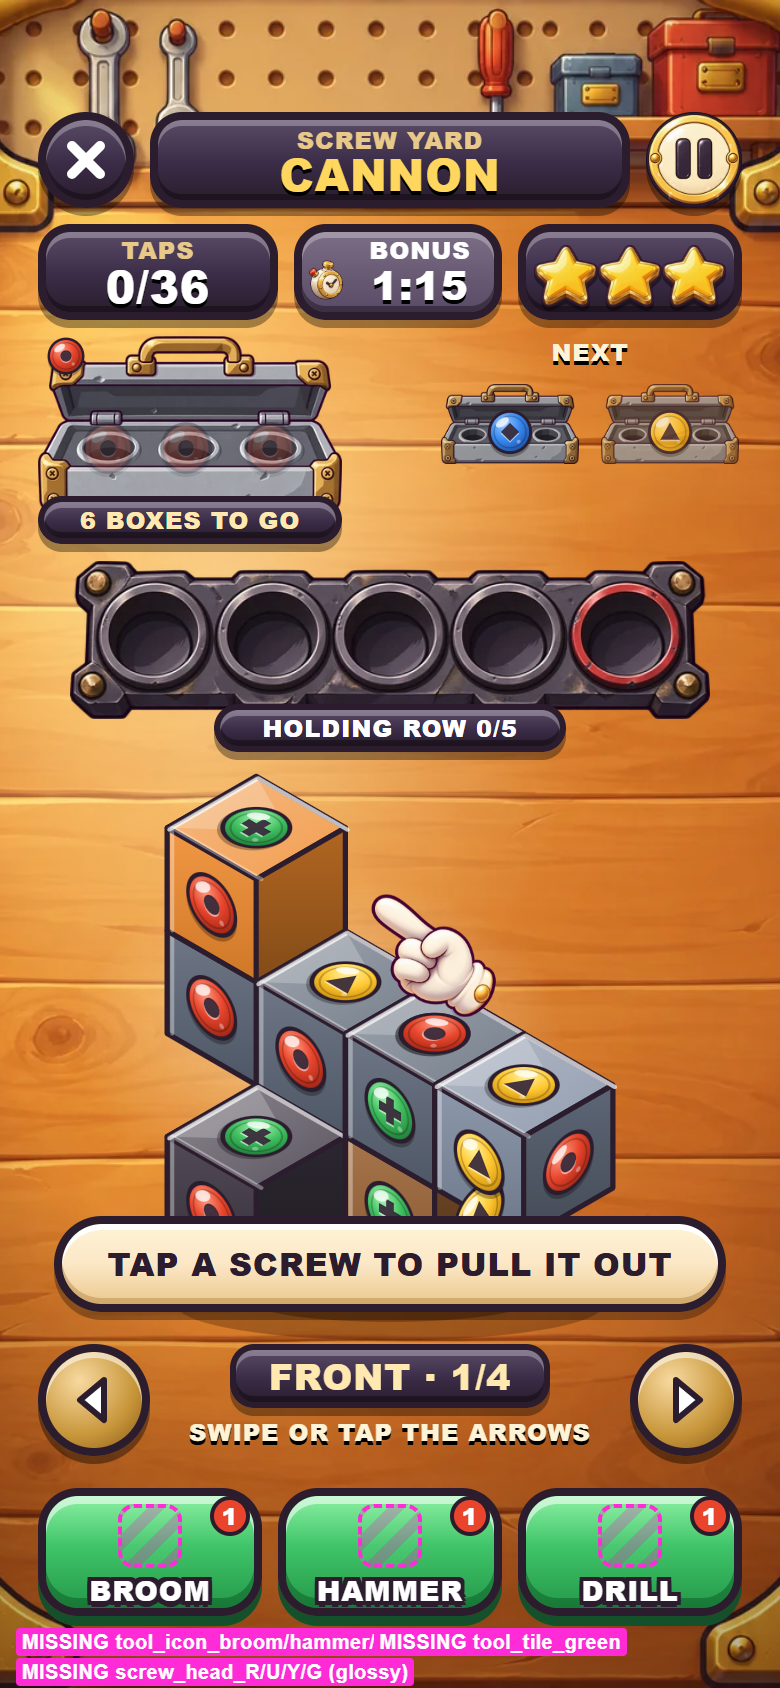
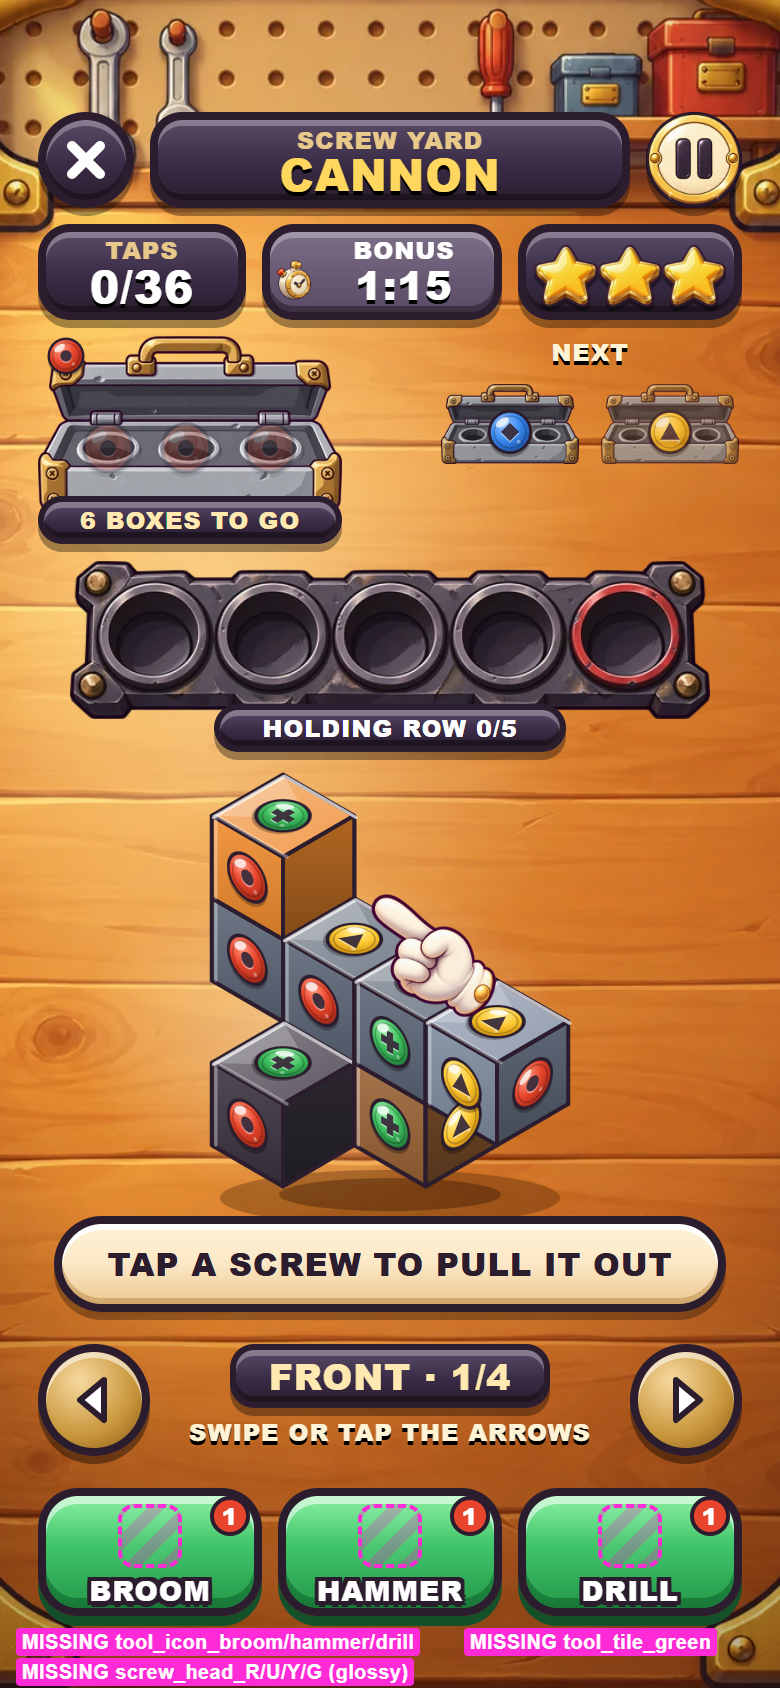
Screw Yard mock: pixel check pass (stage vs bubbles, stats row, popup, modal position), stronger audit, PIXEL_CHECK.md

diff --git a/art-candidates/mockups/screw-yard/index.html b/art-candidates/mockups/screw-yard/index.html
@@ -171,7 +171,7 @@ img('icon_pause',48,48,{position:'absolute',left:'-4px',top:'-4px',width:'48px',
 
 // HUD row 2: taps / bonus clock / star meter
 const r2=el('div',null,{left:L+'px',top:'112px',width:(C-32)+'px',height:'48px',zIndex:80,display:'flex',gap:'8px'},phone,'L80_stats_row');
-const tapsP=el('div','plate',{width:'120px',height:'48px',position:'relative',flex:'none'},r2);tapsP.dataset.layer='L80_taps_plate';
+const tapsP=el('div','plate',{width:'104px',height:'48px',position:'relative',flex:'none'},r2);tapsP.dataset.layer='L80_taps_plate';
 const over=S.taps>=S.budget*.8;
 txt('TAPS',12,'#e8c98a',{position:'absolute',left:0,right:0,top:'2px',textAlign:'center',lineHeight:'14px'},tapsP);
 txt(`${S.taps}/${S.budget}`,22,over?'#ff8a70':'#fff',{position:'absolute',left:0,right:0,top:'14px',textAlign:'center',lineHeight:'26px',textShadow:'0 2px 0 #000'},tapsP);
@@ -218,8 +218,9 @@ if(S.danger)rowChip.classList.add('a-danger');
 
 // stage (3D object)
 const STY=384, STH=HB-176-STY;
+const BUB=Q.get('nobub')==='1'?0:STATE==='start'?56:STATE==='danger'?40:0;   // coach / warning bubble sits at the stage bottom: the object is fitted above it
 const ob=objectSVG(S.obj,S.removed);
-const stage=el('div',STATE==='danger'?'a-shake':'',{left:X0+'px',top:(STATE==='screws'?STY+72:STY)+'px',width:C+'px',height:(STATE==='screws'?STH-72:STH)+'px',zIndex:50},phone,'L50_object_stage');
+const stage=el('div',STATE==='danger'?'a-shake':'',{left:X0+'px',top:(STATE==='screws'?STY+72:STY)+'px',width:C+'px',height:(STATE==='screws'?STH-72:STH-BUB)+'px',zIndex:50},phone,'L50_object_stage');
 stage.innerHTML=ob.svg;
 if(STATE==='start'){const tp=stage.querySelector('.tapme');}
 
@@ -253,7 +254,7 @@ if(STATE==='mid'){
  el('div',null,{position:'absolute',left:'-18px',top:'-18px',width:'36px',height:'36px',transform:'rotate(40deg)'},f).innerHTML=screwSVG('Y',36);
  for(let i=1;i<=3;i++)el('div',null,{position:'absolute',left:(-18-i*14)+'px',top:(-4+i*10)+'px',width:(14-i*2)+'px',height:(14-i*2)+'px',borderRadius:'50%',background:'rgba(255,230,120,'+(.6-i*.15)+')'},f);
  [[-70,260],[-30,300],[58,256]].forEach(([dx,dy],i)=>{const s=el('div','a-tw',{left:(X0+C/2+dx)+'px',top:dy+'px',width:'16px',height:'16px',zIndex:66,animationDelay:(i*.4)+'s'},phone,'L66_sparkle');s.innerHTML='<svg viewBox="0 0 16 16" width="16" height="16"><path d="M8 0l2 6 6 2-6 2-2 6-2-6-6-2 6-2z" fill="#fff6b0"/></svg>'});
- const cb=el('div','plate ctr',{left:(X0+C/2+72)+'px',top:'312px',width:'96px',height:'32px',zIndex:66,borderRadius:'16px',borderColor:'#7a4fd0'},phone,'L66_popup_plus_one');txt('+1 SCREW',14,'#fff',{lineHeight:'18px'},cb);
+ const cb=el('div','plate ctr',{left:(R_-96)+'px',top:'376px',width:'96px',height:'32px',zIndex:66,borderRadius:'16px',borderColor:'#7a4fd0'},phone,'L66_popup_plus_one');txt('+1 SCREW',14,'#fff',{lineHeight:'18px'},cb);
 }
 if(STATE==='danger'){
  el('div','a-danger',{left:0,top:0,width:W+'px',height:H+'px',zIndex:70,pointerEvents:'none',boxShadow:'inset 0 0 90px 18px rgba(255,30,10,.55)'},phone,'L70_danger_vignette');
@@ -267,7 +268,7 @@ if(STATE==='screws'){
 }
 if(S.modal){
  el('div',null,{left:0,top:0,width:W+'px',height:H+'px',zIndex:90,background:'rgba(43,29,46,.58)'},phone,'L90_dim');
- const PW=C-48,PX=X0+24,PY=144,PH=528;
+ const PW=C-48,PX=X0+24,PY=176,PH=528;
  const pn=el('div',null,{left:PX+'px',top:PY+'px',width:PW+'px',height:PH+'px',zIndex:92,borderStyle:'solid',borderWidth:'28px',borderImage:`url(${A}kit3_panel_popup.webp) 56 fill / 28px stretch`,filter:'drop-shadow(0 8px 0 rgba(0,0,0,.35))'},phone,'L92_result_panel');
  const pc=el('div',null,{position:'absolute',left:'-28px',top:'-28px',width:PW+'px',height:PH+'px'},pn);
  const win=S.modal==='win';
@@ -277,7 +278,7 @@ if(S.modal){
  txt(win?'TAKEN APART!':'ROW FULL!',20,'#fff',{position:'absolute',left:0,right:0,top:'22px',textAlign:'center',lineHeight:'28px'},rb,'outl');
  // hero object on rays
  const hero=el('div',null,{position:'absolute',left:((PW-96)/2)+'px',top:'56px',width:'96px',height:'96px'},pc);hero.dataset.layer='L93_object_hero';
- if(win){const ry=el('div','a-rays',{position:'absolute',left:'48px',top:'48px',width:'176px',height:'176px'},hero);ry.style.transform='translate(-50%,-50%)';ry.style.animation='rays 14s linear infinite';ry.innerHTML='';img('starburst',176,176,{opacity:.8},ry)}
+ if(win){const ry=el('div','a-rays',{position:'absolute',left:'48px',top:'48px',width:'144px',height:'144px'},hero);ry.style.transform='translate(-50%,-50%)';ry.style.animation='rays 14s linear infinite';ry.innerHTML='';img('starburst',144,144,{opacity:.8},ry)}
  img('cannon_5',96,96,{position:'relative',filter:win?'':'grayscale(.85) brightness(.75)',transform:win?'':'rotate(-6deg)'},hero);
  // stars
  const row=el('div',null,{position:'absolute',left:((PW-216)/2)+'px',top:'160px',width:'216px',height:'64px',display:'flex',justifyContent:'space-between'},pc);row.dataset.layer='L93_stars';
@@ -306,7 +307,7 @@ if(S.modal){
 
 /* MISSING art, one sticker row inside the bottom safe area (the art itself is hatched magenta where it sits) */
 {const M=STATE==='screws'?['screw_head_R/U/Y/G (glossy)']:[];M.push('tool_icon_broom/hammer/drill','tool_tile_green');if(['danger','fail'].includes(STATE))M.push('star_empty');
- if(STATE!=='screws')M.push('screw_head_R/U/Y/G (glossy)');let x=8,row=0;M.forEach(m=>{const w=m.length*5.6+22;if(x+w>W-8){x=8;row++}sticker(m,x,H-30+row*15,phone);x+=w;})}
+ if(STATE!=='screws')M.push('screw_head_R/U/Y/G (glossy)');let x=8,row=0;M.forEach(m=>{const w=(m.length+8)*6+8;if(x+w>W-8){x=8;row++}sticker(m,x,H-30+row*15,phone);x+=w;})}
 /* ---------- debug overlays ---------- */
 function debug(){
   if(GRID){const g=el('div',null,null,phone);g.id='gridlay';
@@ -329,8 +330,19 @@ function audit(){
   for(let i=0;i<taps.length;i++)for(let j=i+1;j<taps.length;j++){const a=R(taps[i]),b=R(taps[j]);const ox=Math.min(a.right,b.right)-Math.max(a.left,b.left),oy=Math.min(a.bottom,b.bottom)-Math.max(a.top,b.top);if(ox>2&&oy>2)out.push(`OVERLAP ${taps[i].dataset.layer} x ${taps[j].dataset.layer}`)}
   document.querySelectorAll('.txt').forEach(e=>{if(e.closest('.sticker,.lname'))return;const fs=parseFloat(getComputedStyle(e).fontSize);if(fs<12)out.push(`FONT<12 "${e.textContent.slice(0,14)}" ${fs}`);
     const par=e.parentElement,pr=R(par),rg=document.createRange();rg.selectNodeContents(e);const tr=rg.getBoundingClientRect();
-    if(tr.width>0&&par!==phone&&par.dataset&&(tr.left<pr.left-1||tr.right>pr.right+1))out.push(`TEXT-OVER "${e.textContent.slice(0,18)}" ${tr.left.toFixed(0)}-${tr.right.toFixed(0)} in ${pr.left.toFixed(0)}-${pr.right.toFixed(0)}`)});
-  const pre=document.createElement('pre');pre.id='audit';pre.textContent=`AUDIT ${STATE} ${W}x${H} C=${C} X0=${X0}\n`+(out.length?out.join('\n'):'CLEAN');document.body.appendChild(pre);
+    const inset=par.classList.contains('plate')||par.classList.contains('cream')||par.classList.contains('gbtn')||par.classList.contains('bbtn')?5:1;   // plates have a 4 px border: text must clear it
+    if(tr.width>0&&par!==phone&&(tr.left<pr.left+inset-2||tr.right>pr.right-inset+2))out.push(`TEXT-OVER "${e.textContent.slice(0,18)}" ${tr.left.toFixed(0)}-${tr.right.toFixed(0)} in ${pr.left.toFixed(0)}-${pr.right.toFixed(0)}`)});
+  // layer overlaps (not only taps): HUD / bubbles / chips / popups against each other; intentional pairs are whitelisted
+  if(!modal){const ls=[...document.querySelectorAll('[data-layer]')].filter(e=>/^L(60|62|64|65|66|70|80)_/.test(e.dataset.layer)&&!e.parentElement.closest('[data-layer]'));
+    const okPair=/L62_.*L60_|L60_.*L62_|L66_|L65_|L70_danger|L80_turn_label.*L80_turn_|L80_stats_row.*L80_(taps|bonus|star)|L80_(taps|bonus|star).*L80_stats_row/;
+    for(let i=0;i<ls.length;i++)for(let j=i+1;j<ls.length;j++){const a=R(ls[i]),b=R(ls[j]),n=ls[i].dataset.layer+' '+ls[j].dataset.layer;if(okPair.test(n))continue;
+      const ox=Math.min(a.right,b.right)-Math.max(a.left,b.left),oy=Math.min(a.bottom,b.bottom)-Math.max(a.top,b.top);if(ox>2&&oy>2)out.push(`LAYER-OVERLAP ${n} ${ox.toFixed(0)}x${oy.toFixed(0)}`)}
+    // object drawn area vs bubbles / legend
+    const st=document.querySelector('[data-layer="L50_object_stage"]'),sv=st.querySelector('svg'),vb=sv.viewBox.baseVal,sr=R(st),k=Math.min(sr.width/vb.width,sr.height/vb.height),dw=vb.width*k,dh=vb.height*k;
+    const dr={left:sr.left+(sr.width-dw)/2,right:sr.left+(sr.width+dw)/2,top:sr.top+(sr.height-dh)/2,bottom:sr.top+(sr.height+dh)/2};
+    document.querySelectorAll('[data-layer="L64_coach_bubble"],[data-layer="L64_warning_bubble"],[data-layer="L70_screw_legend"],[data-layer="L80_turn_label"]').forEach(e=>{const b=R(e);const ox=Math.min(dr.right,b.right)-Math.max(dr.left,b.left),oy=Math.min(dr.bottom-20,b.bottom)-Math.max(dr.top,b.top);if(ox>2&&oy>2)out.push(`OBJECT-COVERED by ${e.dataset.layer} ${oy.toFixed(0)}px`)});
+    out.push(`INFO object ${dw.toFixed(0)}x${dh.toFixed(0)}`)}
+  const pre=document.createElement('pre');pre.id='audit';pre.textContent=`AUDIT ${STATE} ${W}x${H} C=${C} X0=${X0}\n`+(out.filter(s=>!s.startsWith('INFO')).length?out.join('\n'):'CLEAN\n'+out.join('\n'));document.body.appendChild(pre);
 }
 const finish=()=>{document.getAnimations().forEach(a=>{try{a.pause();a.currentTime=T}catch(e){}});debug();if(Q.get('audit')==='1')audit();document.title='READY'};
 setTimeout(finish,Q.get('audit')==='1'?300:60);

diff --git a/docs/art/mocks/screw-yard/PIXEL_CHECK.md b/docs/art/mocks/screw-yard/PIXEL_CHECK.md
@@ -1,0 +1,52 @@
+# SCREW YARD mock: pixel check (step 2 of the mock chain)
+
+Pixel Checker, task t-e9ba9093, 2026-10-15. Fixes were made directly in `art-candidates/mockups/screw-yard/index.html`; nothing in `src/` was touched. All 18 clean PNGs and 6 annotated PNGs in that folder were re-rendered (they are the AFTER shots).
+
+**Verdict: PASS.** 0 OPEN items. Notes N1 to N4 are accepted limits, not defects.
+
+## How it was measured
+
+The mock's `?audit=1` (run: `node art-candidates/mockups/screw-yard/render.mjs audit`) only checked taps. It now also checks: text clearing the 4 px plate border, overlaps between any HUD / chip / bubble / popup layers (intentional pairs whitelisted), and whether the coach / warning bubble, legend or turn label covers the drawn object (`OBJECT-COVERED`). Result after the fixes: **CLEAN in 18 of 18** (6 states x 3 sizes: 360x780, 390x844, 430x932). Negative control: `&nobub=1` (old stage height) at start 360x780 reports `OBJECT-COVERED by L64_coach_bubble 36px`. Look, contrast and clipping were also judged by eye on all renders.
+
+Before shots: `docs/art/mocks/screw-yard/before/` (start 360, danger 390, mid 390, win 360, fail 430). After shots: same file names in `art-candidates/mockups/screw-yard/`.
+
+## Check table
+
+| # | Check | Sizes | Result | Found / done |
+|---|---|---|---|---|
+| 1 | Object hidden by coach / warning bubble | 360, 390, 430 (start, danger) | FIXED | The bubble sat on the bottom of the object (36 px covered at 360). The stage is now shortened by the bubble height (56 start, 40 danger), so the object is fitted above it. Object is 132x160 at 360 (was 178x216, cut). |
+| 2 | HUD stats row text at 360 | 360 | FIXED | BONUS plate was 80 wide; "BONUS" touched the border. Taps plate 120 -> 104 wide, so BONUS is 96 (360), 120 (390), 160 (430); text clears the border. |
+| 3 | `+1 SCREW` popup covered the red last well | all (mid) | FIXED | Popup moved to y 376, right-aligned to the 16 px margin (clear of the row chip and the red well). |
+| 4 | Result panel clipped the HUD plates | all (win, fail) | FIXED | Panel at y 144 cut "24/36" in half behind the ribbon. Panel moved to y 176 (grid), ends 704 at 360x780, inside the safe area. |
+| 5 | Win rays crowding the stars | all (win) | FIXED | Starburst 176 -> 144 so it no longer runs under the stars. |
+| 6 | MISSING stickers clipped / overlapping | all | FIXED | Width estimate was too small, so stickers overlapped and ran off the right edge; now `(chars+8)*6+8`. |
+| 7 | Touch targets >= 44 | all | PASS | Back 48, pause 48, arrows 56, tool tiles 64 high, panel buttons 64 / 48. |
+| 8 | Safe areas (top 48, bottom 32) | all | PASS | Only back / title / pause (y 56) in the top band; tools end at HB-32. |
+| 9 | 8 px grid, 16 px margins | all | PASS | Audited from column X0. Centred items may sit on a 4 px half step (N1). |
+| 10 | Min text 12 px, contrast | all | PASS | Smallest text is 12 px. White on dark plates, ink on cream, outlined white on green / gold. |
+| 11 | Text fit inside plates | all | PASS | After the stricter border check (fix 2), 0 hits. |
+| 12 | Layer overlaps | all | PASS | Remaining overlaps are intentional: chips over toolbox / tray bottom, flying screw, sparkles, tutorial hand over screws, danger glow, modal over HUD. |
+| 13 | Layer order | all | PASS | Matches SPEC: bg 0 / light 2, spotlight 40, stage 50, boxes + tray 60, chips 62, bubbles 64, hand 65, FX 66, danger vignette 70, HUD / tools 80, dim 90, panel 92. |
+| 14 | Icon / screw consistency | all | PASS | One screw drawing for tray, box, flying and object; 4 shapes x 4 colours (colour-blind safe); one plate style; one star asset. |
+| 15 | Modal states read apart | all | PASS | Win: red ribbon, gold rays, lit stars, green chips. Fail: grey ribbon, grey object, empty stars, red chips. |
+
+## Notes (accepted, not open)
+
+- N1. Centred items (title, row chip, panel buttons) sit on a 4 px half step where C minus the width is not a multiple of 16.
+- N2. The Bell is tall: in the screws state at 360x780 the object is 104x144 (screw heads about 14 px), because the 72 px legend takes stage height. Legend is a teaching state. Real tap areas in the game need their own hit slop.
+- N3. Font fallback (Arial Black) is used where Lilita One is not installed; real text is narrower, so fits are worst case.
+- N4. Behind the win / fail dim, the HUD plates are partly covered by the ribbon (BONUS plate text). That is intended modal layering.
+
+## OPEN items
+
+None.
+
+## Art still missing (for the Asset Breaker, NEEDS-ART)
+
+`tool_icon_broom / hammer / drill` (32x32 in a 64 px tile), `tool_tile_green`, glossy `screw_head_R/U/Y/G`, `star_empty`. Placeholders stay magenta-marked.
+
+## Files changed
+
+- `art-candidates/mockups/screw-yard/index.html` (fixes, stronger audit, `nobub` control switch)
+- `art-candidates/mockups/screw-yard/screwyard_*.png`, `annotated_*.png` (re-rendered)
+- `docs/art/mocks/screw-yard/PIXEL_CHECK.md`, `docs/art/mocks/screw-yard/before/*.png`
